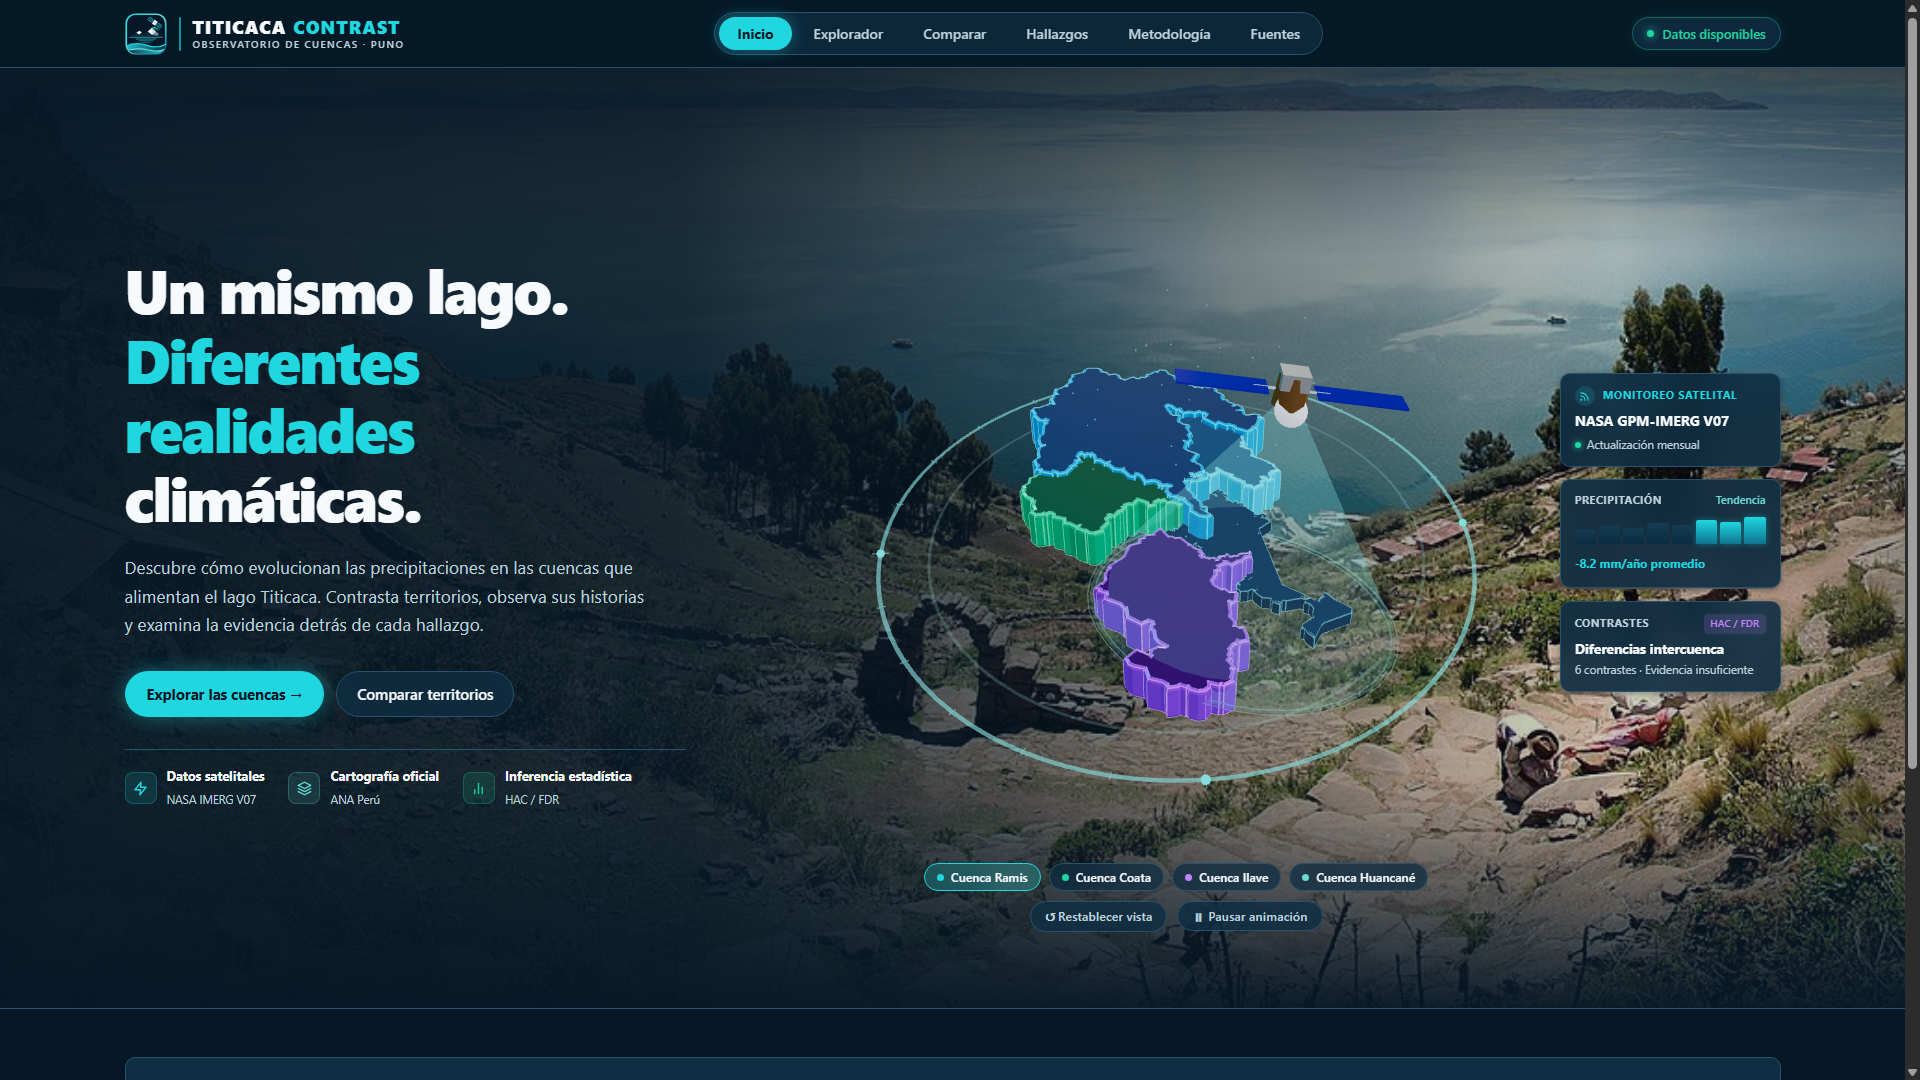
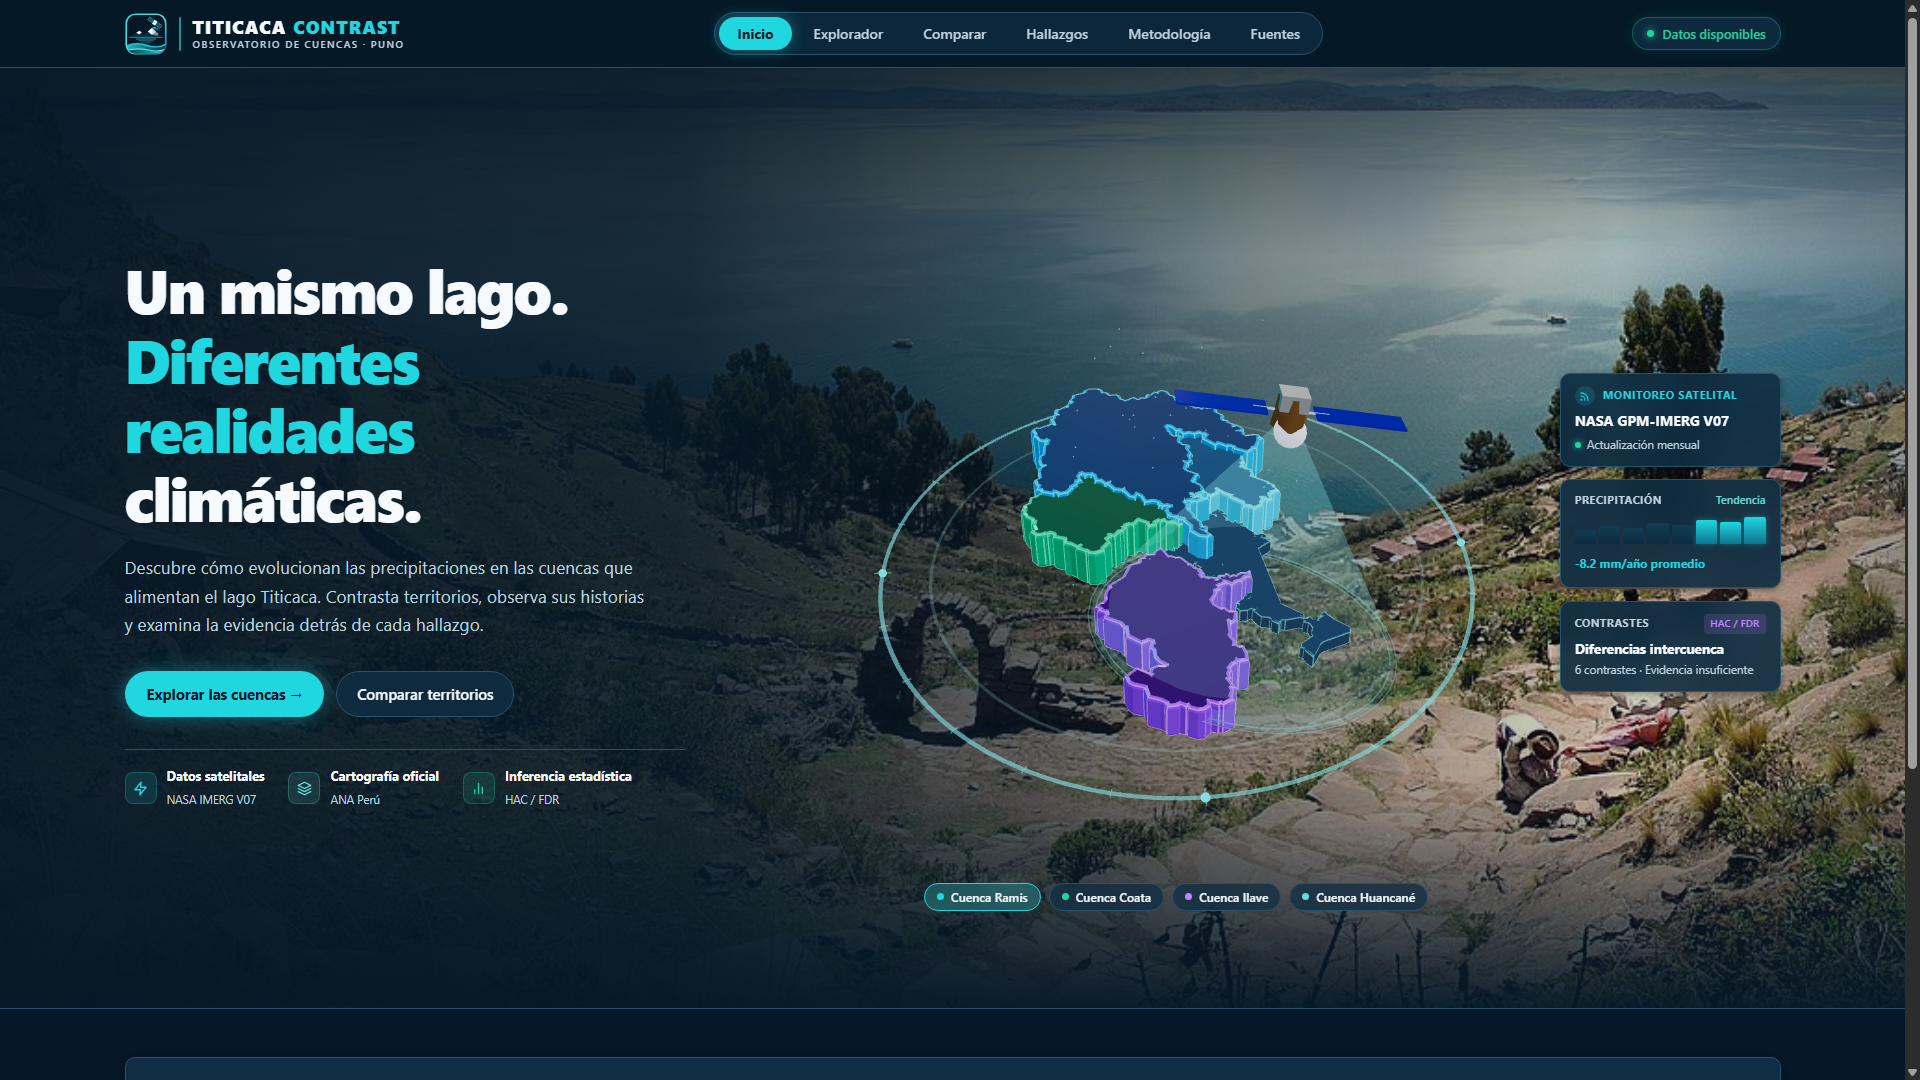
fix(ui): remove visual tool buttons toolbar from hero visualization

diff --git a/web/src/components/TerritoryHeroVisual.tsx b/web/src/components/TerritoryHeroVisual.tsx
@@ -10,7 +10,6 @@ export const TerritoryHeroVisual: React.FC<TerritoryHeroVisualProps> = ({ onSele
   const mountRef = useRef<HTMLDivElement | null>(null)
   const [activeBasin, setActiveBasin] = useState<string>("ramis")
   const [webGlSupported, setWebGlSupported] = useState<boolean>(true)
-  const [isPaused, setIsPaused] = useState<boolean>(false)
   const [reducedMotion, setReducedMotion] = useState<boolean>(false)
 
   const isDragging = useRef<boolean>(false)
@@ -409,7 +408,7 @@ export const TerritoryHeroVisual: React.FC<TerritoryHeroVisualProps> = ({ onSele
       animationFrameId = requestAnimationFrame(animate)
       const elapsedTime = clock.getElapsedTime()
 
-      if (!isPaused && !reducedMotion) {
+      if (!reducedMotion) {
         orbitalRingGroup.rotation.y = elapsedTime * 0.04
 
         satGroup.position.y = 1.90 + Math.sin(elapsedTime * 0.6) * 0.06
@@ -517,6 +516,7 @@ export const TerritoryHeroVisual: React.FC<TerritoryHeroVisualProps> = ({ onSele
     container.addEventListener("mousedown", handlePointerDown)
     window.addEventListener("mouseup", handlePointerUp)
     container.addEventListener("wheel", handleWheel, { passive: false })
+    container.addEventListener("dblclick", handleResetView)
 
     return () => {
       cancelAnimationFrame(animationFrameId)
@@ -525,6 +525,7 @@ export const TerritoryHeroVisual: React.FC<TerritoryHeroVisualProps> = ({ onSele
       container.removeEventListener("mousedown", handlePointerDown)
       window.removeEventListener("mouseup", handlePointerUp)
       container.removeEventListener("wheel", handleWheel)
+      container.removeEventListener("dblclick", handleResetView)
 
       if (renderer) {
         renderer.dispose()
@@ -533,7 +534,7 @@ export const TerritoryHeroVisual: React.FC<TerritoryHeroVisualProps> = ({ onSele
         }
       }
     }
-  }, [isPaused, reducedMotion])
+  }, [reducedMotion])
 
   useEffect(() => {
     basinMeshes.current.forEach((data, id) => {
@@ -729,30 +730,6 @@ export const TerritoryHeroVisual: React.FC<TerritoryHeroVisualProps> = ({ onSele
         >
           <span style={{ width: "7px", height: "7px", borderRadius: "50%", backgroundColor: "var(--basin-huancane)" }} />
           Cuenca Huancané
-        </button>
-      </div>
-
-      <div
-        className="hero-visual-toolbar"
-        role="toolbar"
-        aria-label="Opciones de visualización"
-      >
-        <button
-          type="button"
-          onClick={handleResetView}
-          className="visual-tool-btn"
-          aria-label="Restablecer encuadre geográfico inicial"
-        >
-          ↺ Restablecer vista
-        </button>
-
-        <button
-          type="button"
-          onClick={() => setIsPaused(!isPaused)}
-          className="visual-tool-btn"
-          aria-label={isPaused ? "Reanudar animación orbital" : "Pausar animación orbital"}
-        >
-          {isPaused ? "▶ Reanudar animación" : "⏸ Pausar animación"}
         </button>
       </div>
     </div>

diff --git a/web/src/styles/global.css b/web/src/styles/global.css
@@ -174,36 +174,6 @@ select, input {
   }
 }
 
-.hero-visual-toolbar {
-  display: flex;
-  align-items: center;
-  justify-content: center;
-  gap: 10px;
-  margin-top: 10px;
-  flex-wrap: wrap;
-}
-
-.visual-tool-btn {
-  display: inline-flex;
-  align-items: center;
-  gap: 6px;
-  padding: 6px 14px;
-  border-radius: var(--border-radius-full);
-  background: rgba(16, 46, 67, 0.85);
-  border: 1px solid var(--color-border-discrete);
-  color: var(--color-text-secondary);
-  font-size: 0.78rem;
-  font-weight: 600;
-  cursor: pointer;
-  transition: all 0.15s ease;
-  user-select: none;
-}
-
-.visual-tool-btn:hover {
-  background: rgba(32, 215, 223, 0.15);
-  border-color: var(--color-primary-cyan);
-  color: #F7FAFC;
-}
 
 @media (max-width: 767px) {
   .container {
